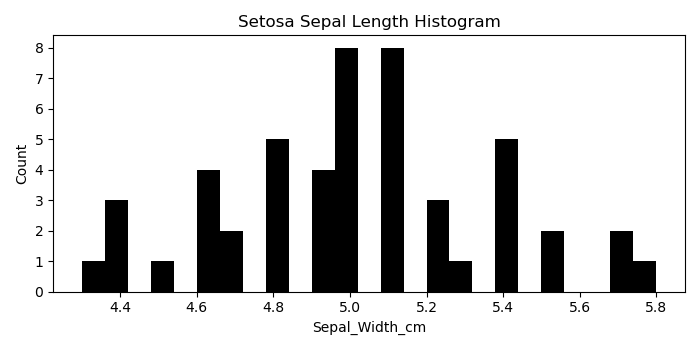
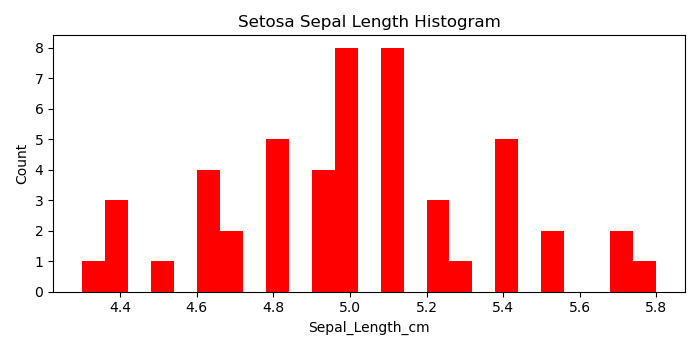
README updated; brushing up comments and presentation

diff --git a/analysis.py b/analysis.py
@@ -142,6 +142,7 @@ normalized_x_train = scaler.transform(x_train)
 normalized_x_test = scaler.transform(x_test) 
 print('x train before Normalization')
 print(x_train[0:5])
+# We can see that the normalization process scalably lowered the sizes of the floating point values in the data set:
 print('\nx train after Normalization')
 print(normalized_x_train[0:5])
 
@@ -264,7 +265,7 @@ from sklearn.metrics import accuracy_score
 print(f'The accuracy of our implementation is {accuracy_score(y_test, y_pred_scratch)}')
 print(f'The accuracy of sklearn implementation is {accuracy_score(y_test, y_pred_sklearn)}')
 
-# Performing Hyper-parameter Tuning using K-fold Cross Validation, choosing 4 splits. The k in k Nearest 
+# Performing Hyperparameter Tuning using K-fold Cross Validation, choosing 4 splits. The k in k Nearest 
 # Neighbours is a machine learning hyperparameter. A hyperparameter in a parameter that is already set before 
 # starting training on a data set - they can't be learned directly from the training process. 
 # Hyperparameter tuning involves tuning parameters as tuples so that a machine learning algorithm such as kNN
@@ -282,19 +283,22 @@ k_values = list(range(1,140,1))
 for k in k_values: 
   accuracy_fold = 0
   # The elements here can be named anything but it helps readablilty to give a descriptive name:
-  for normalized_x_train_fold_idx, normalized_x_valid_fold_idx in kf.split(normalized_x_train): 
-      normalized_x_train_fold = normalized_x_train[normalized_x_train_fold_idx] 
-      y_train_fold = y_train[normalized_x_train_fold_idx]
+  for normalized_x_train_fold_index, normalized_x_valid_fold_index in kf.split(normalized_x_train): 
+      normalized_x_train_fold = normalized_x_train[normalized_x_train_fold_index] 
+      y_train_fold = y_train[normalized_x_train_fold_index]
 
-      normalized_x_test_fold = normalized_x_train[normalized_x_valid_fold_idx]
-      y_valid_fold = y_train[normalized_x_valid_fold_idx]
+      normalized_x_test_fold = normalized_x_train[normalized_x_valid_fold_index]
+      y_valid_fold = y_train[normalized_x_valid_fold_index]
+      # This function was defined above: 
       y_pred_fold = KNN_from_scratch(normalized_x_train_fold, y_train_fold, normalized_x_test_fold, k)
 
       accuracy_fold += accuracy_score(y_pred_fold, y_valid_fold) 
+  # Diving by the number of splits to get an accuracy and then appending it to the empty array 'accuracy_k':
   accuracy_fold = accuracy_fold / n_splits 
   accuracy_k.append(accuracy_fold)
 # Creates a tuple with accuracy corresponding to k value:
 print(f'The accuracy for each K value was {list ( zip (accuracy_k, k_values))}') 
+# 'np.argmax()' outputs the maximum element of an array:
 print(f'Best accuracy was {np.max(accuracy_k)}, which corresponds to a value of K= {k_values[np.argmax(accuracy_k)]}')
 
 
@@ -302,13 +306,13 @@ print(f'Best accuracy was {np.max(accuracy_k)}, which corresponds to a value of 
 X = df[["SepalLength", "SepalWidth", "PetalLength", "PetalWidth"]].values
 Y = df[['Species']].values
 # Creating an instance of labelencoder (part of the sklearn package).
-#enc = LabelEncoder()
-# LabelEncoder.fit maps column strings to numerical values
-#label_encoder = enc.fit(Y)
+enc = LabelEncoder()
+# 'LabelEncoder.fit' maps column strings to numerical values
+label_encoder = enc.fit(Y)
 # Assigns numerical values in the variable 'Y':
-#Y = label_encoder.transform(YAMLError) + 1
+Y = label_encoder.transform(YAMLError) + 1
 
-#mean_vectors = []
-#for cl in range(1,4):
-#    mean_vectors.append(np.mean(X[Y==cl], axis=0))
-#    print('Mean Vector class %s: %s\n' %(cl, mean_vectors[cl-1]))
+mean_vectors = []
+for cl in range(1,4):
+    mean_vectors.append(np.mean(X[Y==cl], axis=0))
+    print('Mean Vector class %s: %s\n' %(cl, mean_vectors[cl-1]))

diff --git a/linearRegression.py b/linearRegression.py
@@ -14,6 +14,9 @@ x_var = iris["1"]
 x_var2 = x_var.values.reshape(-1, 1)
 y_var = iris[" 2"]
 y_var2 = y_var.values.reshape(-1, 1)
+# 'train_test_split' method to randomly assign data points to training and testing groups; in this case x_training
+# and x_testing is from the sepal length column and the y training and testing groups are taken from the sepal
+# width column:
 x_training, x_testing, y_training, y_testing = train_test_split(x_var2, y_var2, random_state=0)
 
 # Creating a linear regression object setting it equal to a variable, z:
@@ -24,6 +27,21 @@ linearReg = z.fit(x_training, y_training)
 # and independent variables. P-values for coefficients can tell if the relationships observed in training and
 # testing sets are also true for the entire dataset:
 print("Coefficient: " + str(linearReg.coef_))
+# The intercept is where the regression line hits the y axis:
 print("Intercept: " + str(linearReg.intercept_))
-print("Training R-squared value: " + str(linearReg.score(x_training, y_training)))
-print("Testing R-squared value: " + str(linearReg.score(x_testing, y_testing)))
+# R-squared is the percentage of a dependent variable variation.
+print("Training R-squared value, Sepal: " + str(linearReg.score(x_training, y_training)))
+print("Testing R-squared value, Sepal: " + str(linearReg.score(x_testing, y_testing)))
+
+
+x_var = iris[" 3"]
+x_var2 = x_var.values.reshape(-1, 1)
+y_var = iris[" 4"]
+y_var2 = y_var.values.reshape(-1, 1)
+x_training, x_testing, y_training, y_testing = train_test_split(x_var2, y_var2, random_state=0)
+z = LinearRegression()
+linearReg = z.fit(x_training, y_training)
+print("Coefficient: " + str(linearReg.coef_))
+print("Intercept: " + str(linearReg.intercept_))
+print("Training R-squared value, Petal: " + str(linearReg.score(x_training, y_training)))
+print("Testing R-squared value, Petal: " + str(linearReg.score(x_testing, y_testing)))

diff --git a/histogram.py b/histogram.py
@@ -48,19 +48,19 @@ plt.ylabel('Count')
 plt.savefig('histogram4.png')
 plt.close()
 
-plt.hist(Seto_length, bins=25, color='black')
+plt.hist(Seto_length, bins=25, color='red')
 plt.title('Setosa Sepal Length Histogram')
 plt.xlabel('Sepal_Length_cm')
 plt.ylabel('Count')
 plt.savefig('histogram5.png')
 plt.close()
-plt.hist(Vers_length, bins=25, color='black')
+plt.hist(Vers_length, bins=25, color='red')
 plt.title('Versicolor Sepal Length Histogram')
 plt.xlabel('Sepal_Length_cm')
 plt.ylabel('Count')
 plt.savefig('histogram6.png')
 plt.close()
-plt.hist(Virg_length, bins=25, color='black')
+plt.hist(Virg_length, bins=25, color='red')
 plt.title('Virginica Sepal Length Histogram')
 plt.xlabel('Sepal_Length_cm')
 plt.ylabel('Count')

diff --git a/README.md b/README.md
@@ -16,6 +16,13 @@ Dimensionality Reduction (DR) involves removing redunant and dependent features 
 
 'k Nearest Neighbours' (kNN) is a algorithm used to classify data, it can be used on the Iris dataset because the categories are known, and because the data is not changing over time. Unknown data points are classified by their distances from other data points whose category types are known. If data points are randomly distributed in a dataset, kNN will be of no value and it will be impossible to accurately classify any points in a dataset. The K value in "K Nearest Neighbours" determines how many nearest data points need to be used for classification. Different values of K can be selected by the analyzer to find a suitable value that doesn't create many errors while also keeping the algorithms ability to make accurate predictions. In cases where K > 1, the category is picked which appeared most frequently in the results. If the K value is even and two or more categories showed up the same number of times, it can be decided either not to assign the data point a category or to randomly choose a category. Data must be clustered in advance, to create what is called the 'training data' and the 'testing data'. Low K values are influenced by the effect of outliers which can skew results so it is important to minimize the effect outliers will have on an output.
 
-<h4><em>Discussion of Analysis:</em></h4> In the 'k Nearest Neighbours' machine learning process I used, the accuracy output obtained was 0.96 or 96%, and for different values of K up to 49 the algorithm maintained a high accuracy. For K values higher than 50, the accuracy started to drop off dramatically, down to a paltry 28% for K values 86 upwards. Interestingly enough, this accuracy remained steady at 28% for values of K higher than 86. Due to the limited numbers of samples in the iris dataset, it was not worth choosing values of K any higher. Despite Versicolor and Virginica subgroups being quite closer together than the Setosa subgroup, this did not affect the ability of the algorithm to give a correct classification for a sample datapoint 96 times out of 100.
+<h4><em>Discussion of Analysis:</em></h4> In the 'k Nearest Neighbours' machine learning process I used, the accuracy output obtained was 0.96 or 96% using a K value of 3, and for different values of K up to 49 the algorithm maintained a high accuracy. For K values higher than 50, the accuracy started to drop off dramatically, down to a paltry 28% for K values 86 upwards. Interestingly enough, this accuracy remained steady at 28% for values of K higher than 86, although not good enough to be useful for classification. Due to the limited numbers of samples in the iris dataset, it was not worth choosing values of K that would have taken in almost the total number of samples avaibable, for the iris dataset 150. Despite Versicolor and Virginica subgroups being quite closer together than the Setosa subgroup, this did not affect the ability of the algorithm to give a correct classification for a sample datapoint 96 times out of 100, using a K value of 3.
+The hyperparameter tuning using K-fold Cross Validation gave a highest accuracy of 97.5% for a K value of 14. This was a better result than the previous kNN percentage accuracy. Therefore, to accurately classify a sample from the Iris dataset, using a k value of 14 would be best.
+
 The colored scatter plots of the sepal dimensions are useful for showing up any unusual outliers in the samples. Setosa had one sepal of width 2.3cm, markedly lower thant he next widest sample of 2.9cm. Setosa has different dimensions to Versicolor samples, the data points of each groups were all separated. Virginica and Versicolor groups looked harder to discriminate on the basis of their dimensions, the data points were clustered together, therefore without color diferentiation it would be impossible to say which data point belonged to which group. Virginica had a wider range of sepal dimensions than the other two groups. It seemed to have 3 outliers, one sepal of length 4.9cm and width 2.5cm, along with 2 other outliers of lengths 7.7cm and 7.9cm respectively, and their widths both approximately 3.8cm. From the plot it can also be assumed that lengths of samples were always longer than widths of samples, or, no samples were wider than they were long.
 The scatterPetal image shows the petal dimensions in a scatterplot for the 3 groups - Setosa, Versicolor and Virginica. The Setosa petal dimensions are clearly much smaller than the other groups. They are also separated by a measurable distance from the nearest petals in the other groups. So it can be said Setosa petals are easier to distinguish from Versicolor or Virginica based on lengths and widths. The angle of the trendline shows that for increasing petal lengths (or widths), the corresponding petal widths (or lengths) also increase, but the lengths still always remain longer than the widths are wide.
+
+The histogram images provide a good visualisation for distribution frequencies, in this case the lengths and widths of the sepals and petals. Sepal lengths showed a more variable distribution than sepal widths - the latter was seen to have an unusually high frequency of length equal to 3. Petal lengths showed a high frequency of petals having a length between 1 and 2cm, with no petals having a length between 2 and 3cm. Higher on the scale, counts were registered between 4 and 7cm. The only reason for this unusal occurance is the presence of different types of petals in the histogram, namely setosa, versicolor and virginica. It also tell us it may be possible to distinguish one petal type from another. The petal width image largely retained the same shape as the petal length image - the high value of r-squared confirms obtained in the linear regression confirms the close relationship between the variables. The histograms outputted in histogram5.png, histogram6.png and histogram7.png are shaped quite differently to one another, also indicating the possibility of predicting with a degree of accuracy, one group of Iris from another. Iris virginica had only one sepal length of 5cm, while Iris setosa had 8 sepal lengths of 5cm along with more counts between 5 and 6cm. Iris versicolor did not differ as much from setosa as virginica did. Versicolor showed to have a high frequency of lengths between 5.5 and 6cm, and the largest value was 7cm with a count of only 1. In contrast, setosa highest length value was 5.8cm.
+
+The linear regression output for sepal lengths had very low values of r-squared. This indicates that the best fitting regression line gives highly inaccurate predictions of sepal widths using the sepal lengths. This seems to contradict the earlier finding of a relationship between sepal lengths and widths, where my trendline showed that with increase values for length or visa versa, width values also increased.
+As regards the petals, the r-squared values in the training and testing groups were much higher, 0.89 and 0.935 respectively, indicating that the petal widths could be predicted quite accurately using the petal lengths. 
